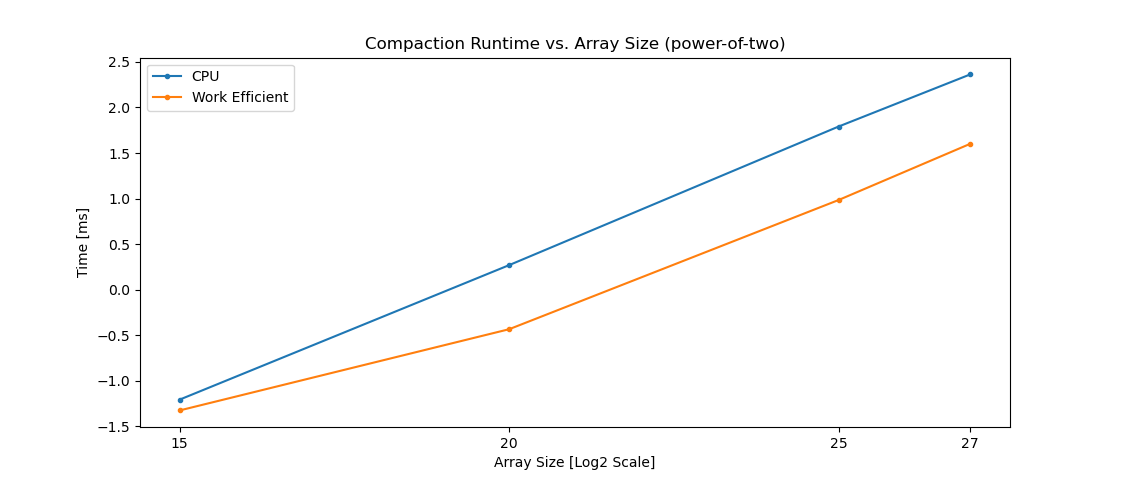
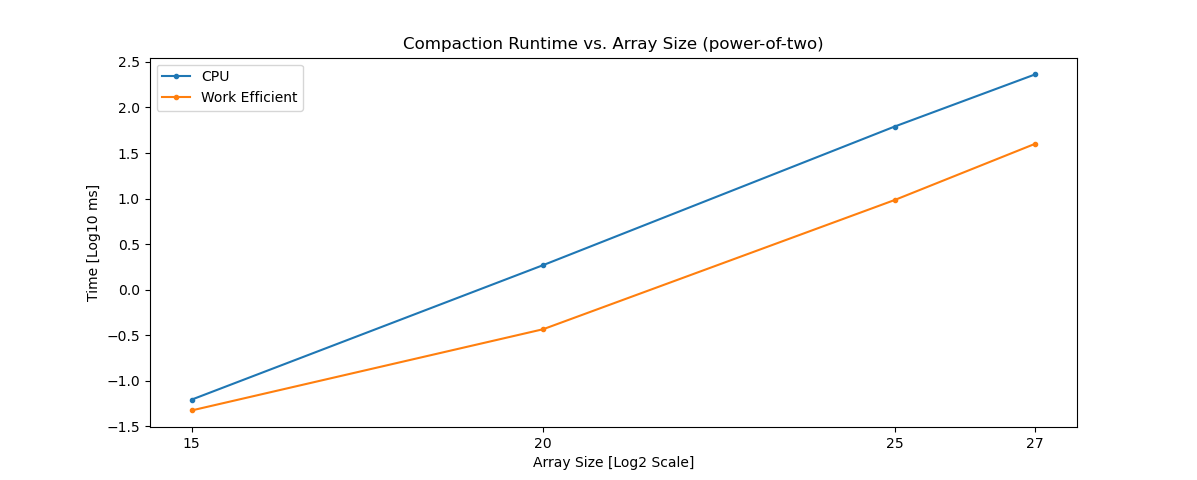
relabel y axis with correct unit

diff --git a/profiling/visualize.py b/profiling/visualize.py
@@ -111,7 +111,7 @@ def main():
   plt.legend(['CPU', 'Naive', 'Work Efficient', 'Thrust'])
   plt.xticks(array_size[4:])
   plt.xlabel('Array Size [Log2 Scale]')
-  plt.ylabel('Time [ms]')
+  plt.ylabel('Time [Log10 ms]')
   plt.title('Scan Runtime vs. Array Size (power-of-two)')
 
   # non-power-of-two
@@ -131,7 +131,7 @@ def main():
   plt.legend(['CPU', 'Naive', 'Work Efficient', 'Thrust'])
   plt.xticks(array_size[4:])
   plt.xlabel('Array Size [Log2 Scale]')
-  plt.ylabel('Time [ms]')
+  plt.ylabel('Time [Log10 ms]')
   plt.title('Scan Runtime vs. Array Size (non-power-of-two)')
 
   # compact, power-of-two
@@ -145,7 +145,7 @@ def main():
   plt.legend(['CPU', 'Work Efficient'])
   plt.xticks(array_size[4:])
   plt.xlabel('Array Size [Log2 Scale]')
-  plt.ylabel('Time [ms]')
+  plt.ylabel('Time [Log10 ms]')
   plt.title('Compaction Runtime vs. Array Size (power-of-two)')
 
   # compact, non-power-of-two
@@ -159,7 +159,7 @@ def main():
   plt.legend(['CPU', 'Work Efficient'])
   plt.xticks(array_size[4:])
   plt.xlabel('Array Size [Log2 Scale]')
-  plt.ylabel('Time [ms]')
+  plt.ylabel('Time [Log10 ms]')
   plt.title('Compaction Runtime vs. Array Size (non-power-of-two)')
   plt.show()
 
